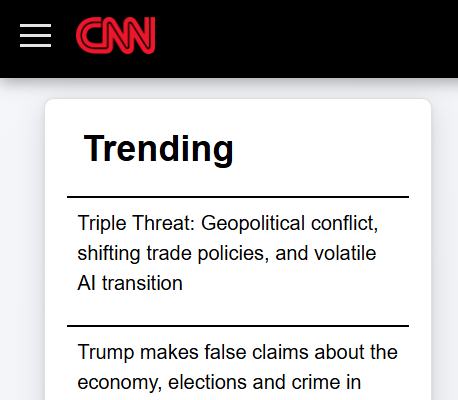
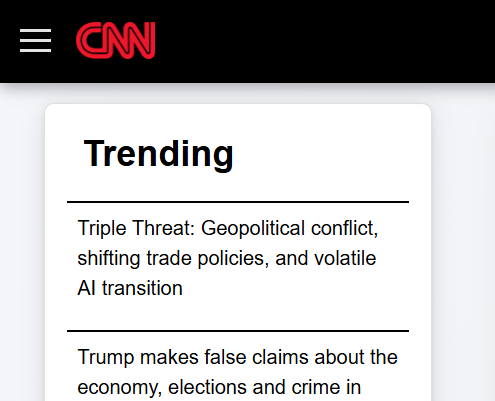
thumbnail cnn fixed

diff --git a/steampunk.html b/steampunk.html
@@ -64,7 +64,6 @@
     <div><i>An image of some of the audio files </i></div>
     </figcaption>
     <img class="screenshot" src="images/audfiles.png">
-    
     </figure>
     <br></br>
     <figure>
@@ -72,7 +71,6 @@
     <div><i>An image of my level layout</i></div>
     </figcaption>
     <img class="screenshot" src="images/level.png">
-    
     </figure>
     <br></br>
     <figure>
@@ -80,7 +78,6 @@
     <div><i>An image from a section of my level</i></div>
     </figcaption>
     <img class="screenshot" src="images/steampunk-4.png">
-    
     </figure>
    </section>
     </main>

diff --git a/interaction-design.html b/interaction-design.html
@@ -36,7 +36,7 @@
     <main>
     <section class="skills">
     <div ><h2>Interaction Design Project: CNN Redesign</h2></div>
-    <img class= "screenshot" src="images/cnn-1.png">
+    <img src="images/cnn-1.png">
     <p>The website for the Inteaction Design Project that me and my teammates opted to remake was that of CNN.</p>
   
     </section>

diff --git a/index.html b/index.html
@@ -67,7 +67,7 @@
       <h2>Career Goals</h2>
       <ul>
       <li>Better My Programming Skills</li>
-      <li>Work On A A-list Game</li>
+      <li>Work On an A-list Game</li>
       <li>Utilze My Audio Engineering Skills More</li>
       </ul>
     </div>
